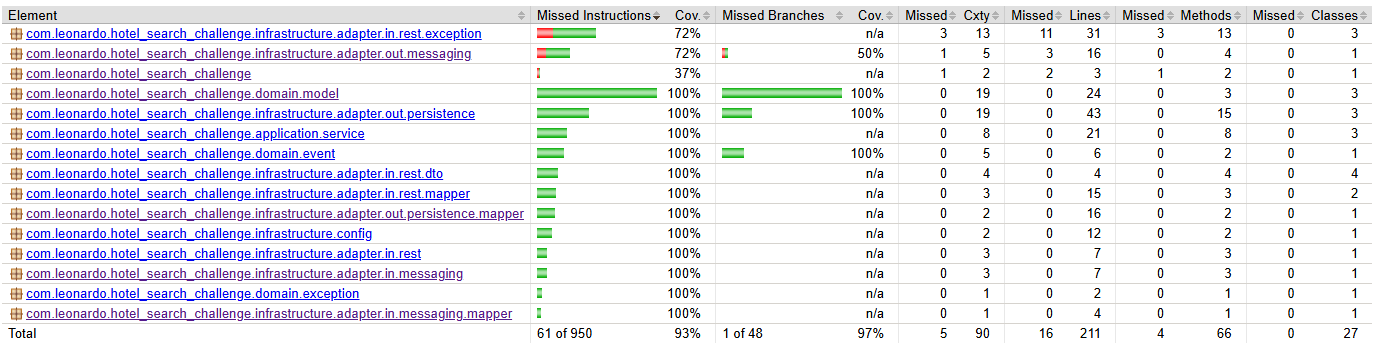
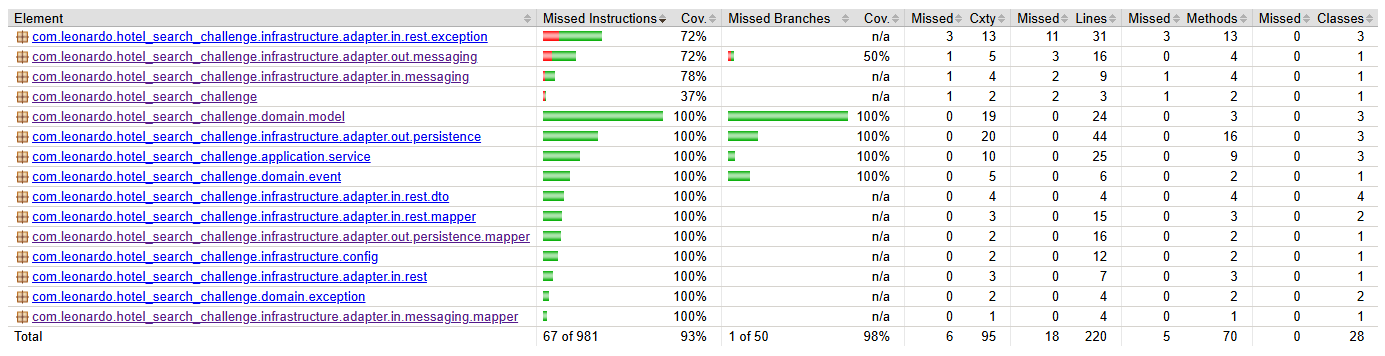
docs: actualizo README.md con nuevos resultados de JaCoCo reports

diff --git a/README.md b/README.md
@@ -225,12 +225,12 @@ docker compose --profile test run --rm test
 
 ### Cobertura
 
-| Métrica | Cobertura |
-|---|---|
-| Instructions | 93% |
-| Branches | 97% |
-| Lines | 92% |
-| Methods | 94% |
+| Métrica      | Cobertura |
+|--------------|-----------|
+| Instructions | 93%       |
+| Branches     | 98%       |
+| Lines        | 92%       |
+| Methods      | 93%       |
 
 El reporte completo se genera en `target/site/jacoco/index.html`.
 